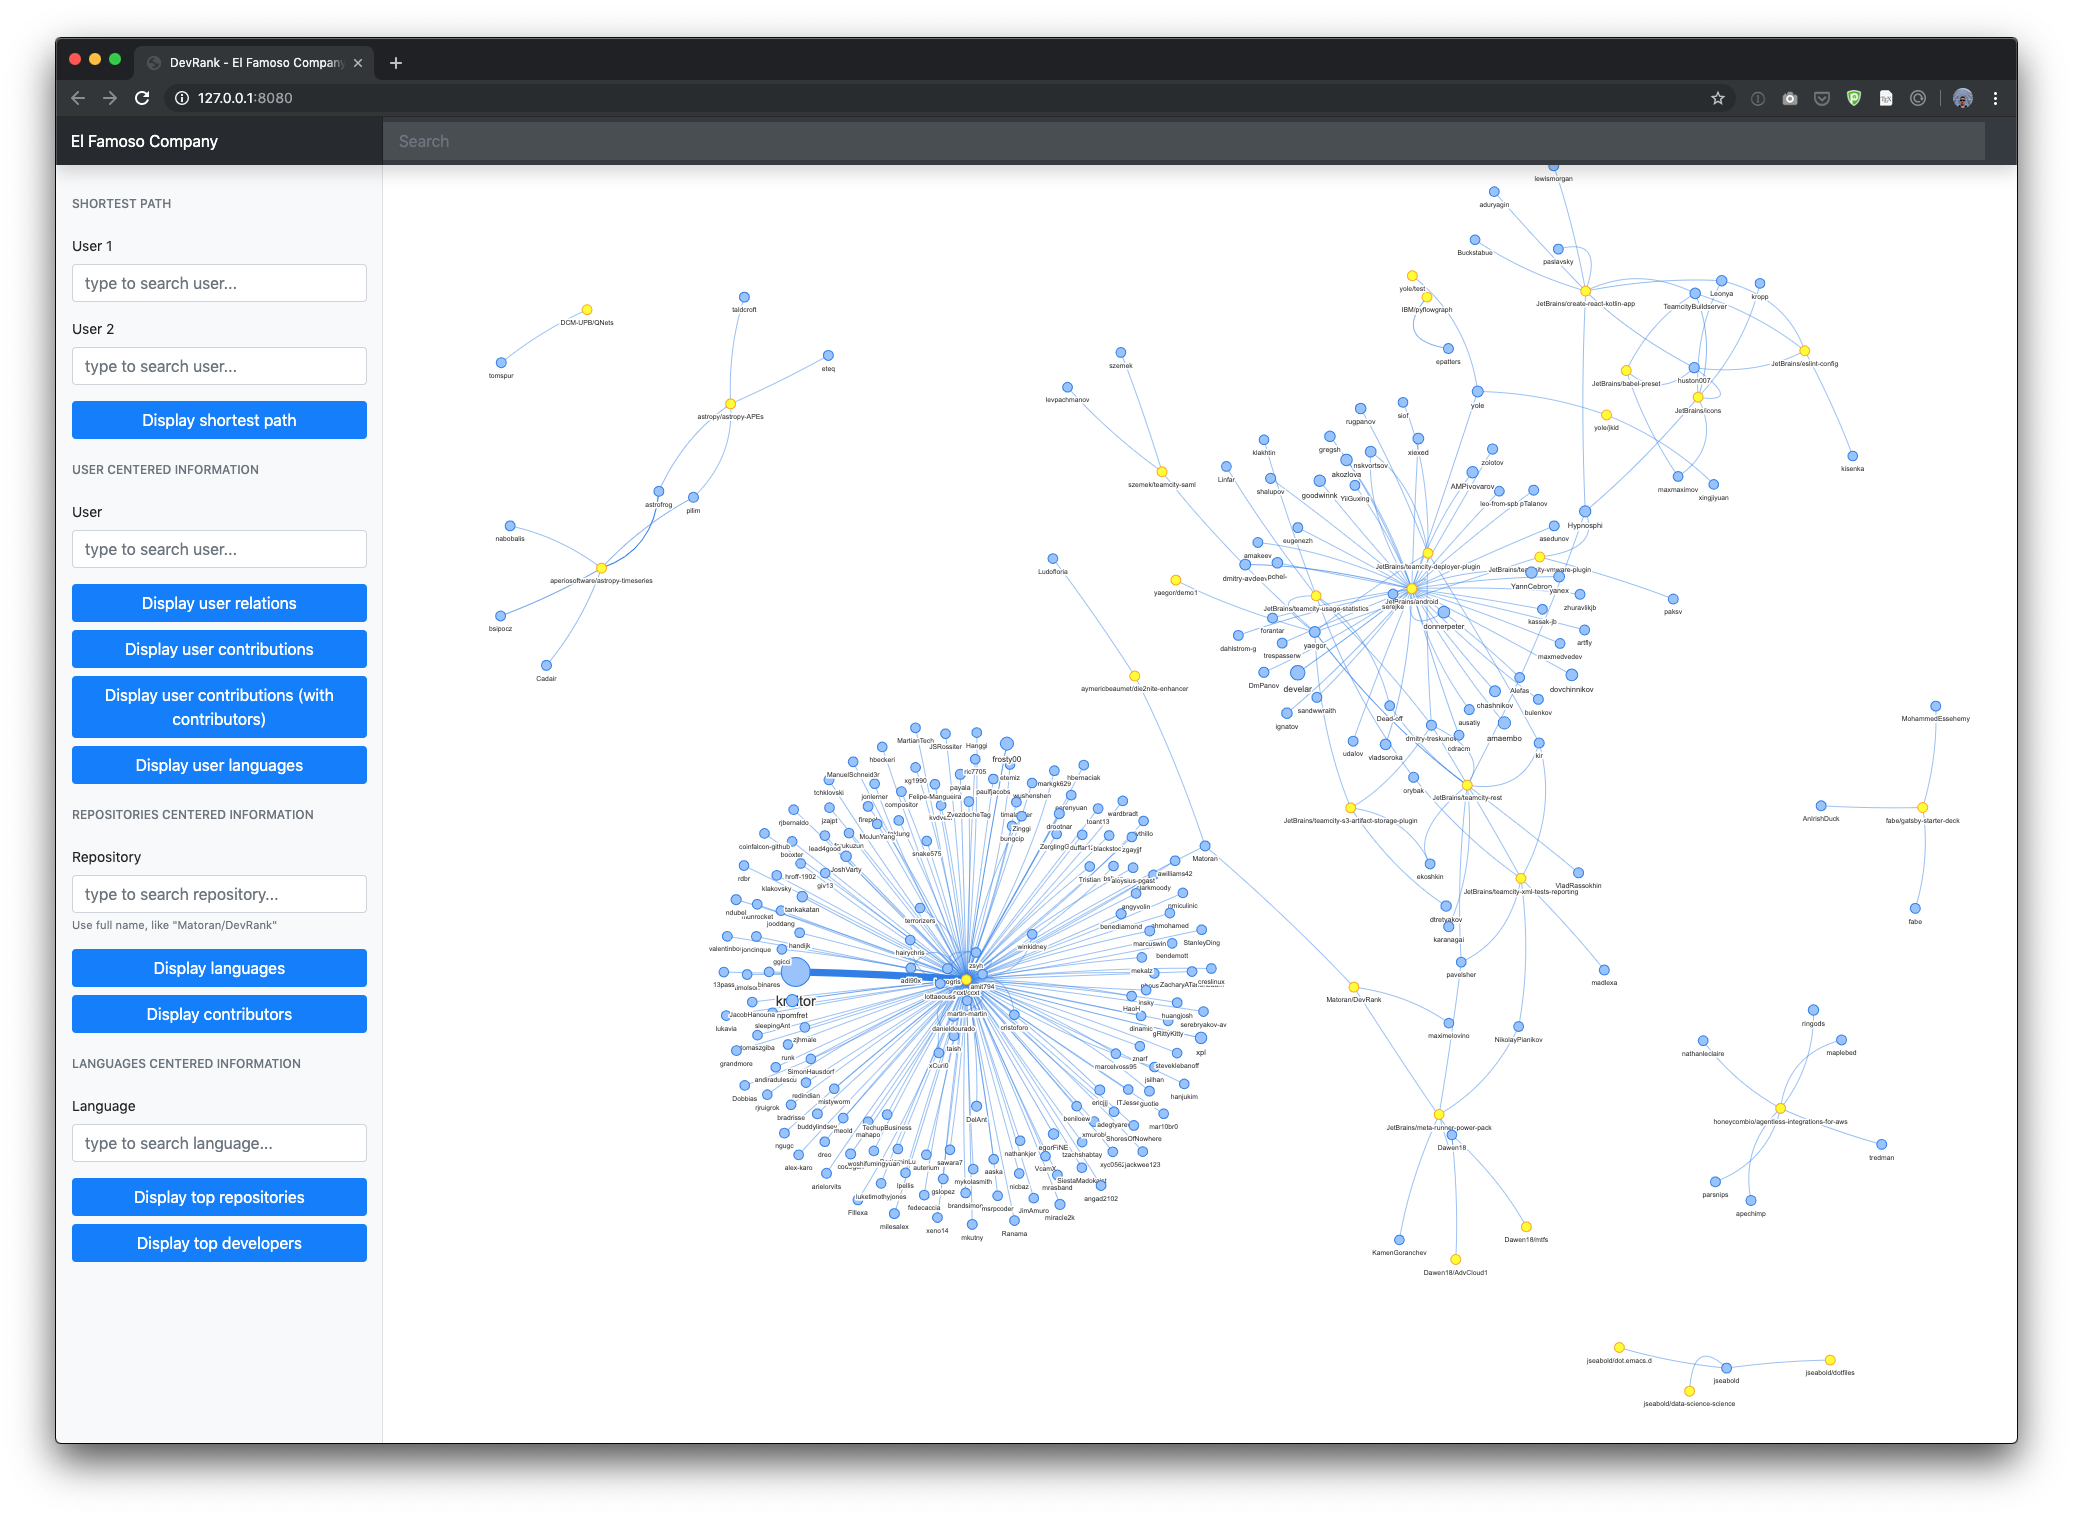
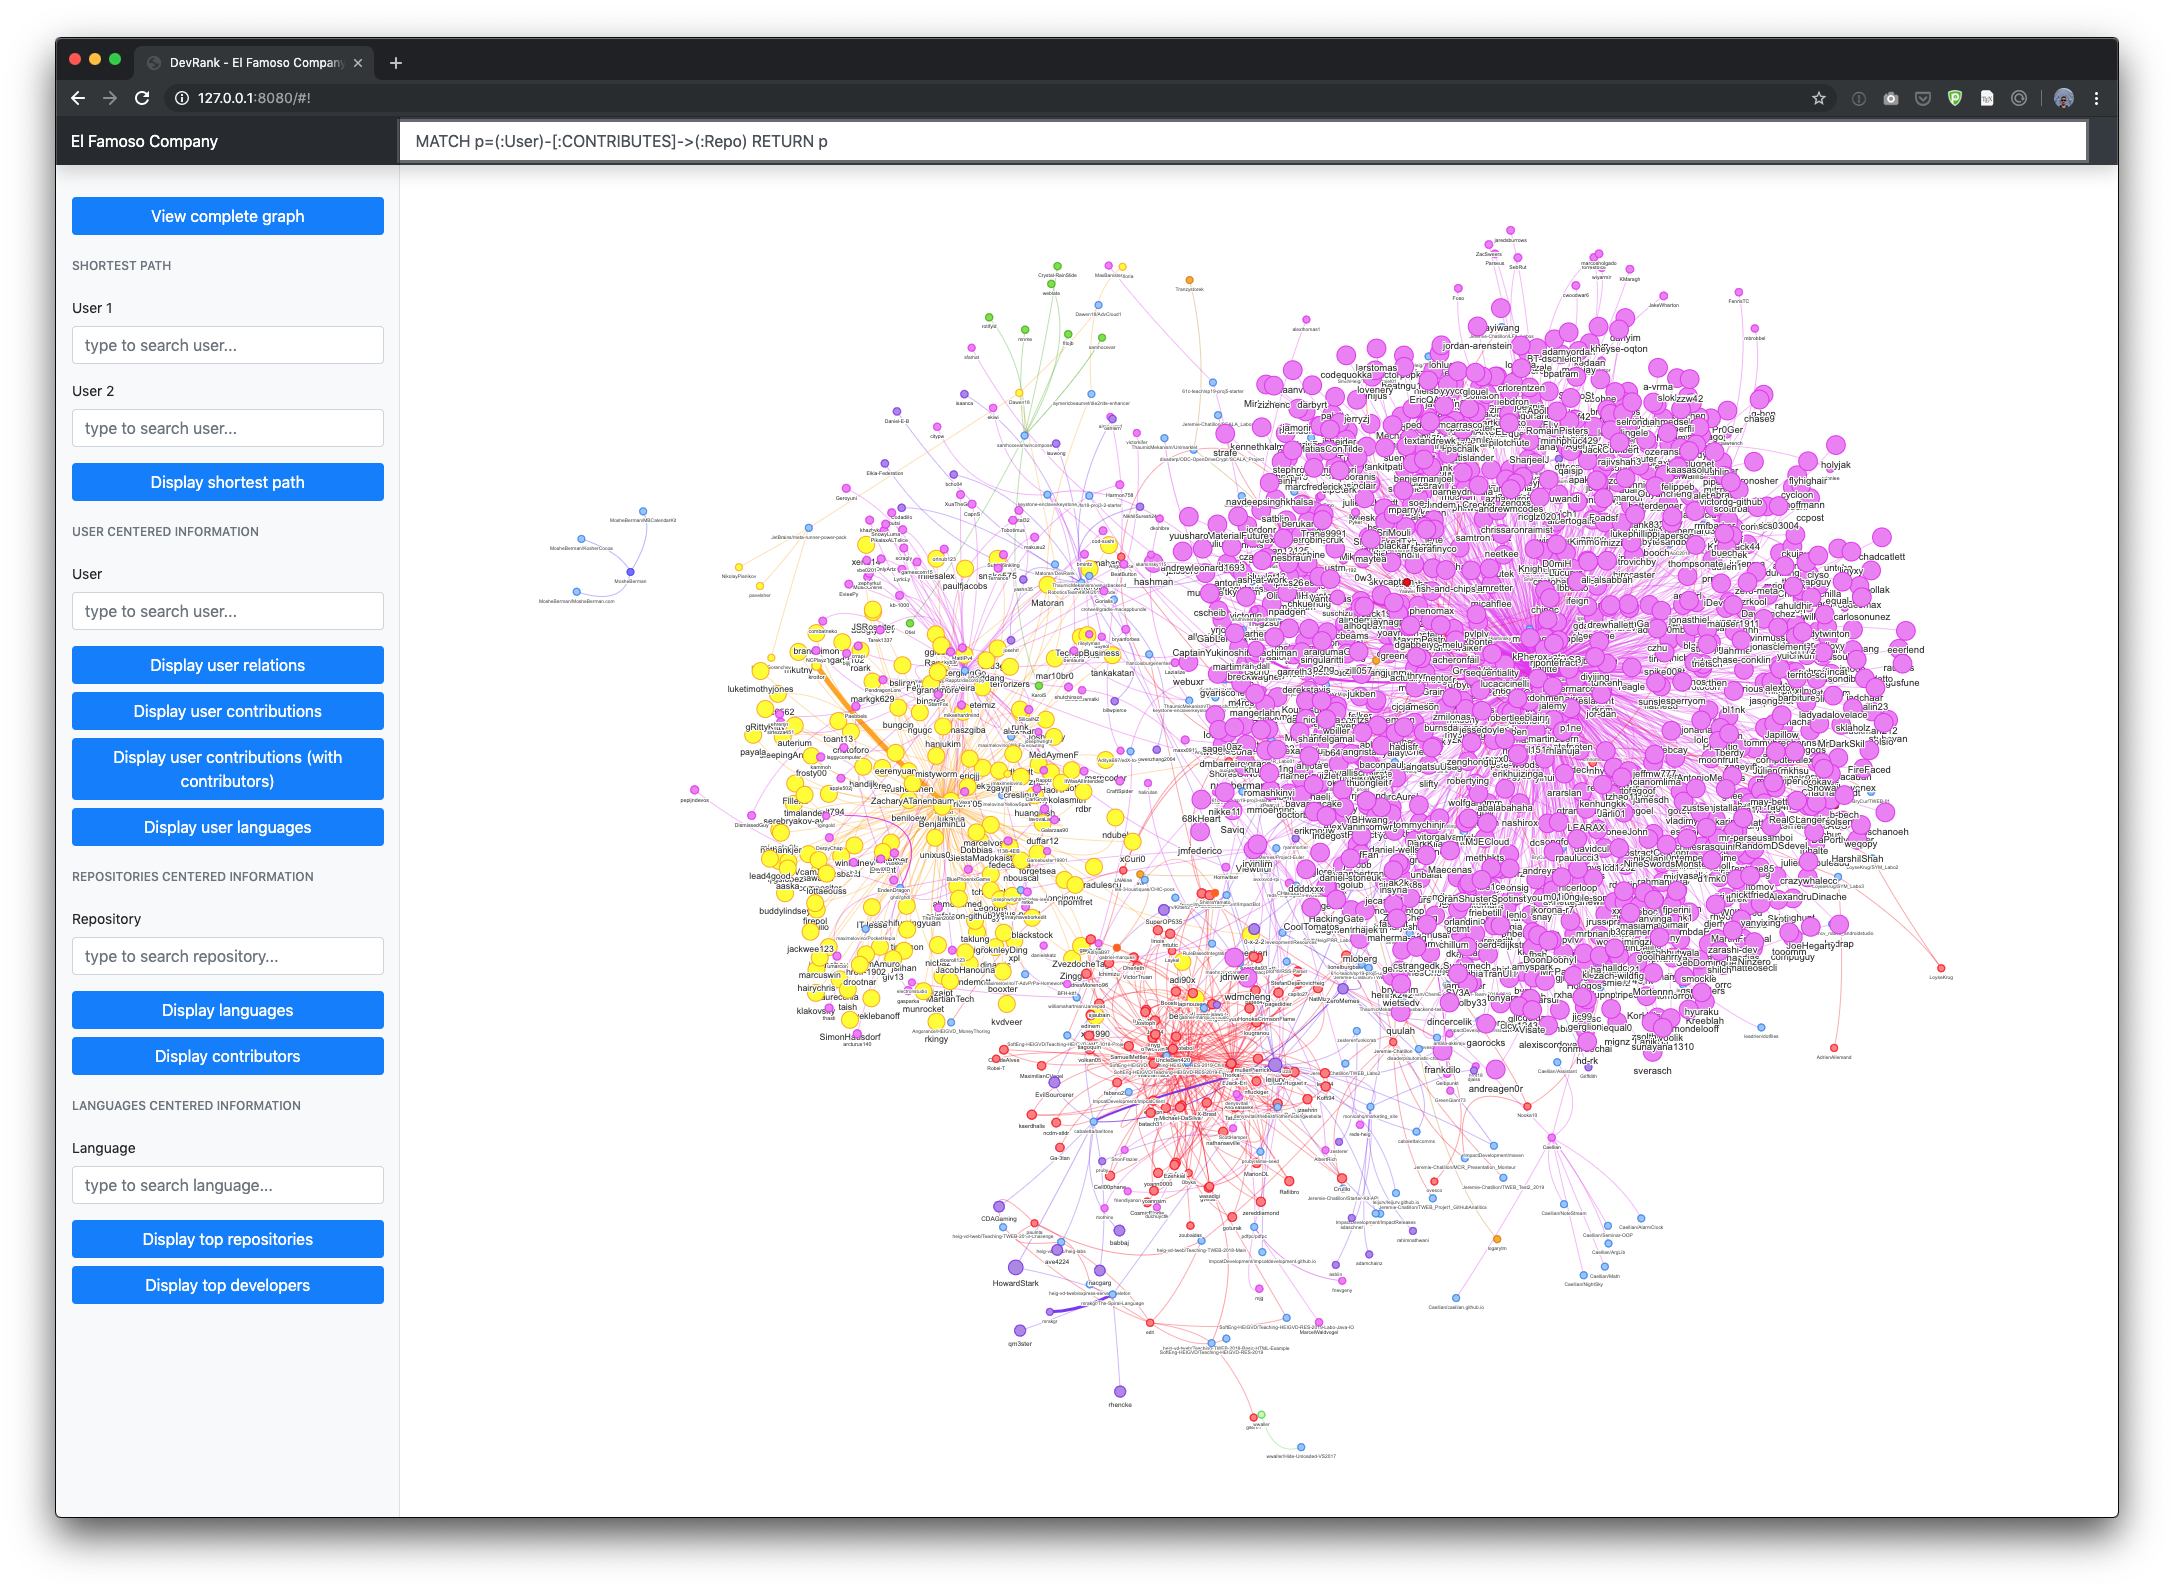
Completed centrality, clustering and readme

diff --git a/neovis/index.html b/neovis/index.html
@@ -117,8 +117,6 @@
                             <label for="repo">Repository</label>
                             <select class="form-control basicAutoSelectRepos" name="simple_select" id="repo"
                                 placeholder="type to search repository..." autocomplete="off"></select>
-                            <small id="repoHelp" class="form-text text-muted">Use full name, like
-                                "Matoran/DevRank"</small>
                         </div>
                         <button onclick="repoLanguages()" class="btn btn-block btn-primary">Display languages</button>
                         <button onclick="repoContributors()" class="btn btn-block btn-primary">Display

diff --git a/neovis/viz.js b/neovis/viz.js
@@ -30,7 +30,8 @@ function getConfig(query) {
         labels: {
             "User": {
                 caption: "login",
-                size: "pagerank"
+                size: "centrality",
+                community: "partition"
             },
             "Repo": {
                 caption: "name"

diff --git a/devrank/create_graph.py b/devrank/create_graph.py
@@ -335,18 +335,18 @@ def build_codes_relation(tx):
            """)
 
 
-def compute_pagerank(tx):
-    print("calculating pagerank")
+def compute_centrality(tx):
+    print("Computing centrality")
     tx.run("""
-            CALL algo.pageRank('User','KNOWS',
-            {
-               iterations:20, 
-               dampingFactor:0.85, 
-               write: true,
-               writeProperty:'pagerank', 
-               weightProperty: 'size'
-             })
-           """)
+    CALL algo.degree("User", "KNOWS", {direction: "outgoing", writeProperty: "centrality", weightProperty: "size"})
+    """)
+
+
+def community_detection(tx):
+    print("Running partitions")
+    tx.run("""
+    CALL algo.scc('User','KNOWS', {write:true,partitionProperty:'partition'})
+    """)
 
 
 start = time.time()
@@ -354,7 +354,8 @@ driver.session().write_transaction(delete_knows_relation)
 driver.session().write_transaction(delete_codes_relation)
 driver.session().write_transaction(build_knows_relation)
 driver.session().write_transaction(build_codes_relation)
-driver.session().write_transaction(compute_pagerank)
+driver.session().write_transaction(compute_centrality)
+driver.session().write_transaction(community_detection)
 print("...Done")
 end = time.time()
 print(f"Took {end - start} seconds for relations")

diff --git a/README.md b/README.md
@@ -1,12 +1,12 @@
 # DevRank
 
-DevRank is a project for a Web Mining class at HES-SO Master. The idea behind DevRank is to analyse the graph of connection between users and repositories on GitHub and apply the PageRank algorithm to define the influence of developers on the platform.
+DevRank is a project for a Web Mining class at HES-SO Master. The idea behind DevRank is to analyse the graph of connection between users and repositories on GitHub and apply the centrality algorithm to define the influence of developers on the platform.
 
 ![](assets/homepage.png)
 
 ## Context and project objectives
 
-The goal of the project is to create a visual search engine for GitHub. The idea is to be able to visualise the graph of GitHub connections between users, repositories and programming languages. Then, we shall run a pagerank algorithm in order to find the most influent developers on the platform, by using the weighted connections according to contributions count to projects. We will also try to detect clusters and closed communities as well as compute shortest paths between users.
+The goal of the project is to create a visual search engine for GitHub. The idea is to be able to visualise the graph of GitHub connections between users, repositories and programming languages. Then, we shall run a centrality algorithm in order to find the most influent developers on the platform, by using the weighted connections according to contributions count to projects. We will also try to detect clusters and closed communities as well as compute shortest paths between users.
 
 ## Data
 
@@ -22,7 +22,7 @@ The brain behind our platform will be a graph database, [Neo4J](https://neo4j.co
 
 We have 3 types of Nodes:
 
-- `User` which contains the `login` of the user and the `pagerank` field with the computed PageRank value
+- `User` which contains the `login` of the user, the `centrality` field with the computed centrality value and the `partition` field containing the ID of the partition for the user
 - `Repo` which contains the `name` of the repository, in this case the full name with `<owner>/<name>`
 - `Language` which contains the `name` of the language
 
@@ -68,22 +68,27 @@ YIELD batches, total RETURN batches, total
 
 This will create the relations by batches of size 10'000.
 
-### Calculating pagerank
+### Computing centrality
 
-The PageRank algorithm is provided in the [Graph Algorithms](https://github.com/neo4j-contrib/neo4j-graph-algorithms) library. In order to use the PageRank algorithm, we need to use relations between two nodes of the same type, so we use `KNOWS` relations between users and the weight of those relations. We also use APOC in order to separate the computing in batches to avoid overloading our server:
+We use a centrality measure in order to determine the influence of users on the platform. The algorithm is provided in the [Graph Algorithms](https://github.com/neo4j-contrib/neo4j-graph-algorithms) library and is called *Degree Centrality*. We use the outgoing `KNOWS` Relations from users with the weigth from `size` of the Relations:
 
 ```cypher
-CALL algo.pageRank('User','KNOWS',
-{
-   iterations:20, 
-   dampingFactor:0.85, 
-   write: true,
-   writeProperty:'pagerank', 
-   weightProperty: 'size'
- })
+CALL algo.degree("User", "KNOWS", {direction: "outgoing", writeProperty: "centrality", weightProperty: "size"})
 ```
 
-We can see that we specify the type of node, the type of relations and the property for our weight. The PageRank can be computed as many times as we want without needing to delete the precedent PageRank result because it will start by initialising the values correctly.
+#### Why we didn't use PageRank
+
+Initially, we planned on using the PageRank algorithm to compute the influcence of users. The problem is that we can have groups of users with all `KNOWS` inside the group and no Relations going outside the group. This is called a *Spider Trap* in the PageRank algorithm and will lead to boost the PageRank of users in that group and take all the importance.
+
+### Finding communities with Strongly Connected Components
+
+We use the [*Strongly Connected Components*](https://neo4j.com/docs/graph-algorithms/current/algorithms/strongly-connected-components/index.html) algorithm to detect clusters in the graph and split the users in communities. We use the `KNOWS` Relations here to determine communities:
+
+```cypher
+CALL algo.scc('User','KNOWS', {write:true,partitionProperty:'partition'})
+```
+
+
 
 ### Retrieval process
 
@@ -114,7 +119,8 @@ Finally, once the retrieval of `orphans_to_process` is done, we join the threads
 2. We delete existing `CODES_IN` relations
 3. We create all `KNOWS` relations
 4. We create all `CODES_IN` relations
-5. We compute the pagerank for all users.
+5. We compute the centrality for all users.
+6. We compute the communities with *Strongly Connected Components*
 
 The relations are deleted here before recreating them because they are build by adding to existing relations, so if they already exist before starting, the results wouldn't be consistent.
 
@@ -235,7 +241,8 @@ We configured Neovis with the settings according to our schema:
 	labels: {
 		"User": {
 			caption: "login",
-			size: "pagerank"
+			size: "centrality",
+      community: "partition"
 		},
 		"Repo": {
 			caption: "name"
@@ -265,7 +272,7 @@ We configured Neovis with the settings according to our schema:
 }
 ```
 
-This allows to specify thickness of relations according to the `size` or `count` in our case and for users we increase the size according to the PageRank. We can see the thickness of links for the different repositories here in the top Scala repositories for example:
+This allows to specify thickness of relations according to the `size` or `count` in our case and for users we increase the size according to the centrality value. We also use the `community` field to specify coloring differently according to `partition` of user. We can see the thickness of links for the different repositories here in the top Scala repositories for example:
 
 ![](assets/topScala.png)
 
@@ -319,3 +326,4 @@ python create_graph.py <seedUser> <numberOfHops>
 
 ## Conclusion
 
+We really enjoyed working on this project and exploring GitHub data. We had to find "hacky" solutions like the round robin of keys to increase limits and we love having to do that. We reached all the objectives we set for the project and even developed a more complete frontend than we hoped in the beginning.
